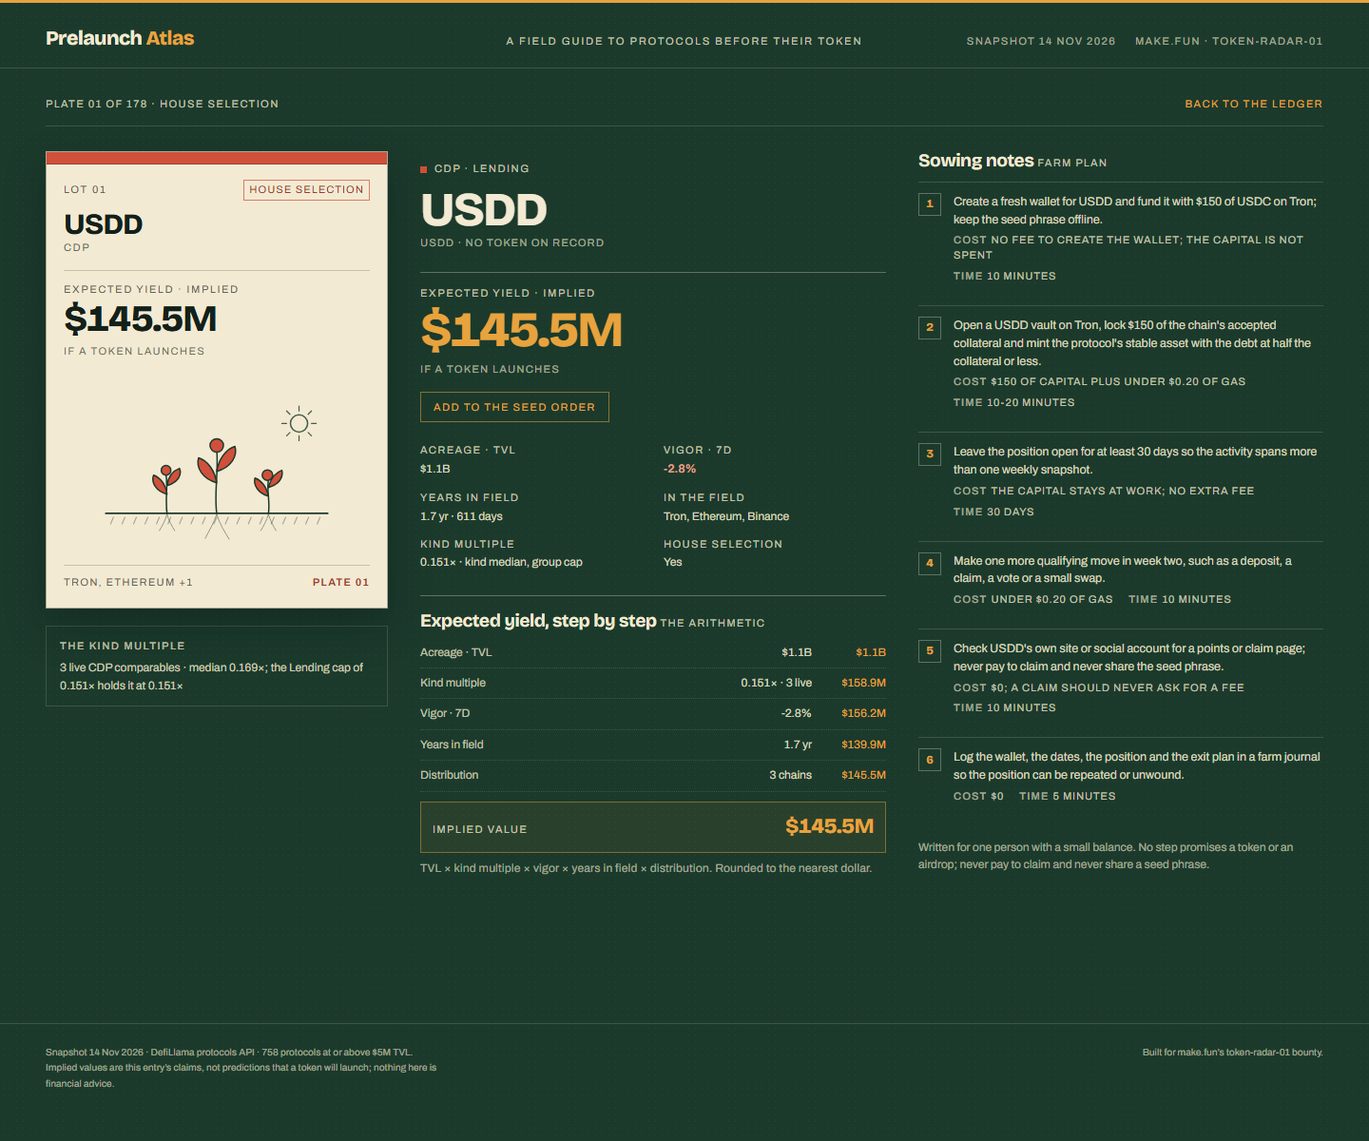
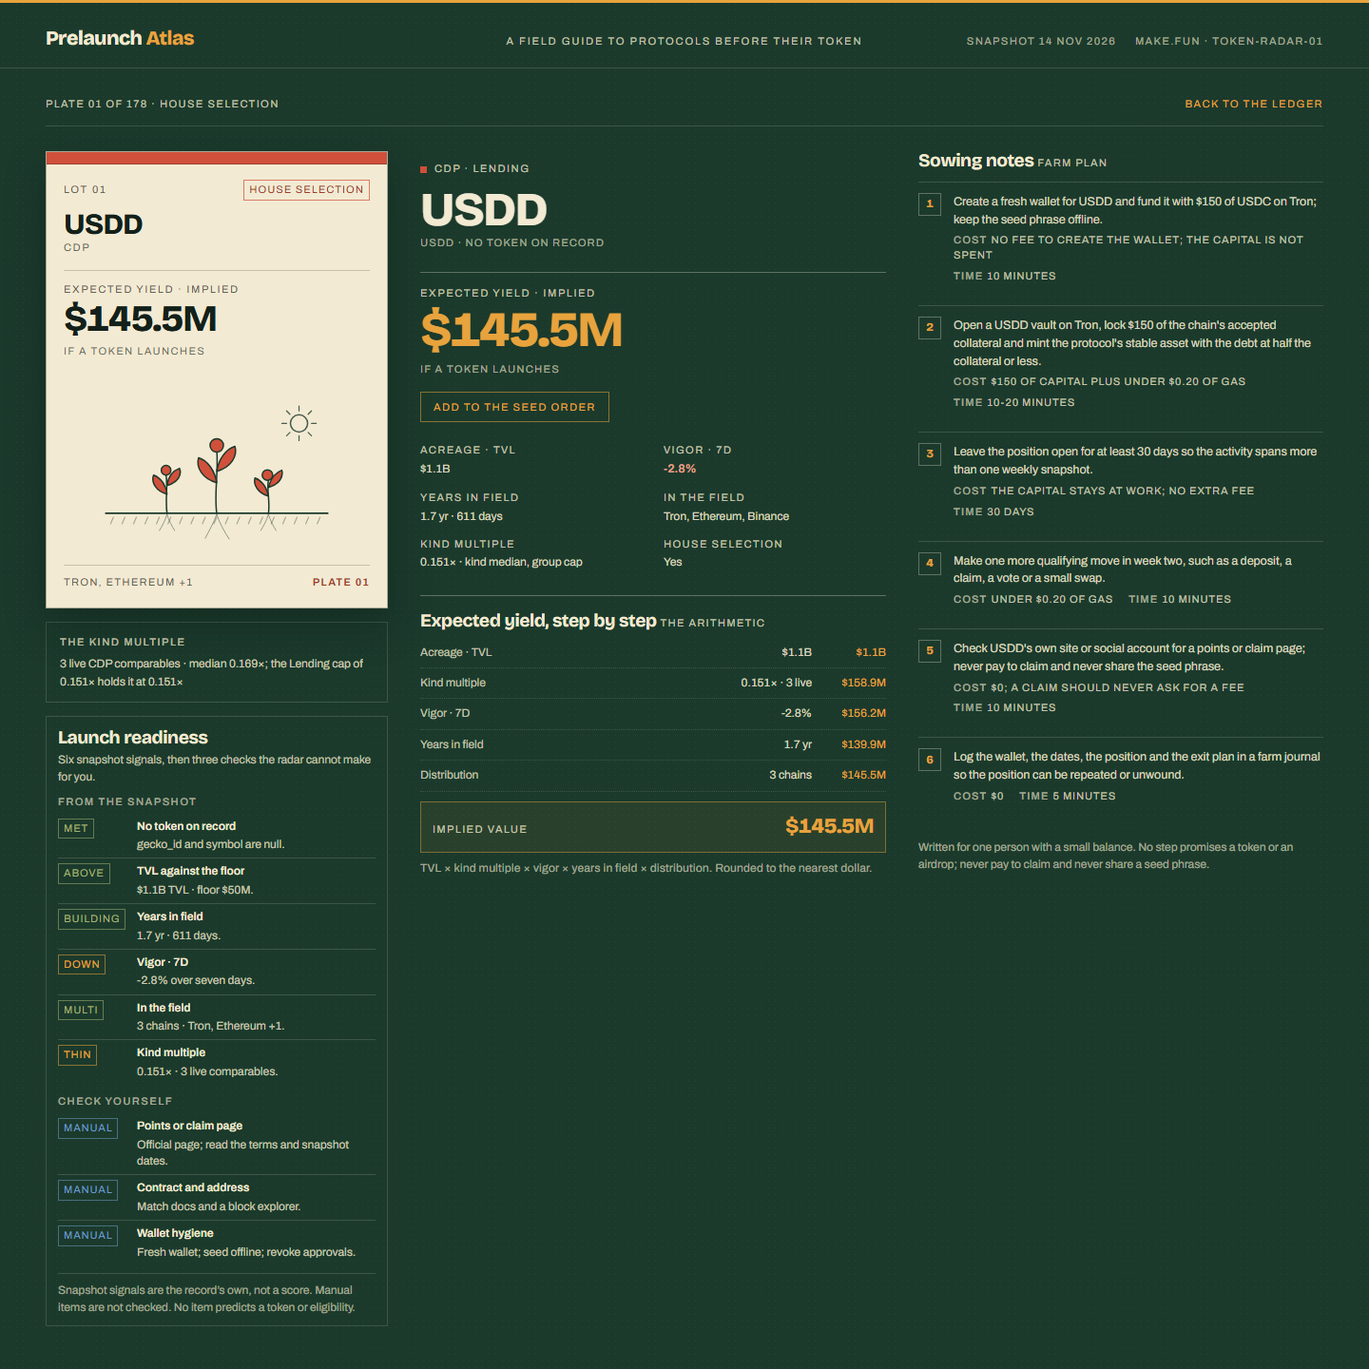
Add the launch-readiness checklist

diff --git a/dashboard/app.js b/dashboard/app.js
@@ -269,6 +269,44 @@
     }).join('');
   }
 
+  function readinessHTML(row) {
+    var aboveFloor = row.tvl_usd >= R.floor_usd;
+    var age = row.age_days;
+    var ageState = age === null ? 'No date' : age >= 730 ? 'Long' : age >= 365 ? 'Building' : 'New';
+    var ageTone = age !== null && age >= 365 ? 'is-met' : 'is-watch';
+    var growth = row.change_7d;
+    var growthState = growth === null ? 'No 7D' : growth > 0 ? 'Up' : growth < 0 ? 'Down' : 'Flat';
+    var growthTone = growth !== null && growth > 0 ? 'is-met' : 'is-watch';
+    var chainState = row.chains.length > 1 ? 'Multi' : row.chains.length === 1 ? 'Single' : 'No chain';
+    var chainTone = row.chains.length > 1 ? 'is-met' : 'is-watch';
+    var multipleState = row.multiple_n >= 4 ? 'Full' : row.multiple_n > 0 ? 'Thin' : 'Fallback';
+    var multipleTone = row.multiple_n >= 4 ? 'is-met' : 'is-watch';
+    var multipleBody = row.multiple_n === 0
+      ? multText(row.multiple) + ' · no live comparable.'
+      : multText(row.multiple) + ' · ' + row.multiple_n + ' live ' + (row.multiple_n === 1 ? 'comparable' : 'comparables') + '.';
+    function item(tone, state, title, body) {
+      return '<li><span class="check-mark ' + tone + '">' + state + '</span><div class="check-body"><strong>' + title + '</strong><span>' + body + '</span></div></li>';
+    }
+    return '<aside class="readiness" aria-labelledby="readiness-title">' +
+      '<h2 id="readiness-title">Launch readiness</h2>' +
+      '<p class="readiness-intro">Six snapshot signals, then three checks the radar cannot make for you.</p>' +
+      '<div class="readiness-part"><h3>From the snapshot</h3><ul class="readiness-list">' +
+      item('is-met', 'Met', 'No token on record', 'gecko_id and symbol are null.') +
+      item(aboveFloor ? 'is-met' : 'is-watch', aboveFloor ? 'Above' : 'Below', 'TVL against the floor', usd(row.tvl_usd) + ' TVL · floor ' + usd(R.floor_usd) + '.') +
+      item(ageTone, ageState, 'Years in field', age === null ? 'No start date recorded.' : ageText(age) + ' · ' + age.toLocaleString('en-US') + ' days.') +
+      item(growthTone, growthState, 'Vigor · 7D', growth === null ? 'No seven-day change reported.' : pct(growth) + ' over seven days.') +
+      item(chainTone, chainState, 'In the field', row.chains.length ? row.chains.length + ' chains · ' + esc(chainShort(row.chains)) + '.' : 'No chain recorded.') +
+      item(multipleTone, multipleState, 'Kind multiple', multipleBody) +
+      '</ul></div>' +
+      '<div class="readiness-part"><h3>Check yourself</h3><ul class="readiness-list">' +
+      item('is-manual', 'Manual', 'Points or claim page', 'Official page; read the terms and snapshot dates.') +
+      item('is-manual', 'Manual', 'Contract and address', 'Match docs and a block explorer.') +
+      item('is-manual', 'Manual', 'Wallet hygiene', 'Fresh wallet; seed offline; revoke approvals.') +
+      '</ul></div>' +
+      '<p class="readiness-note">Snapshot signals are the record’s own, not a score. Manual items are not checked. No item predicts a token or eligibility.</p>' +
+      '</aside>';
+  }
+
   function renderDetail() {
     var row = bySlug[state.slug];
     if (!row) { state.view = 'board'; render(); return; }
@@ -308,6 +346,7 @@
       '</article>';
     var side = '<div class="plate-side">' + packetHTML(row, false) +
       '<div class="comparables"><p class="comparables-title">The kind multiple</p><p>' + esc(row.multiple_basis) + '</p></div>' +
+      readinessHTML(row) +
       '</div>';
     var plan = '<div class="plan-column" id="plan"><h2>Sowing notes <span>farm plan</span></h2><ol class="plan">' +
       row.farm_plan.map(function (step, i) {

diff --git a/dashboard/app.css b/dashboard/app.css
@@ -564,7 +564,7 @@ input[type="search"]::placeholder { color: var(--muted); }
 .back { color: var(--marigold); text-decoration: none; }
 .back:hover { color: var(--cream); }
 .detail-grid { display: grid; grid-template-columns: 360px minmax(0, 1fr) 426px; gap: 34px; align-items: start; }
-.plate-side { display: flex; flex-direction: column; gap: 18px; min-width: 0; }
+.plate-side { display: flex; flex-direction: column; gap: 14px; min-width: 0; }
 .plate-side .comparables { margin-top: 0; }
 .detail-grid .packet { max-width: 360px; }
 .packet-static { box-shadow: 0 18px 40px rgba(6, 18, 12, 0.3); }
@@ -595,6 +595,22 @@ input[type="search"]::placeholder { color: var(--muted); }
 .comparables .comparables-title { margin: 0 0 5px; font-size: 11px; letter-spacing: 0.14em; text-transform: uppercase; color: var(--muted); font-weight: 500; }
 .comparables p { margin: 0; font-size: 12px; line-height: 1.55; color: rgba(243, 234, 211, 0.85); }
 .comparables b { color: var(--cream); font-weight: 600; }
+.readiness { border: 1px solid var(--line); padding: 12px 12px 10px; }
+.readiness h2 { margin: 0; font-family: var(--font-display); font-weight: 700; font-size: 19px; letter-spacing: -0.02em; }
+.readiness-intro { margin: 4px 0 0; font-size: 12px; line-height: 1.5; color: var(--muted); }
+.readiness-part { margin-top: 10px; }
+.readiness-part h3 { margin: 0 0 4px; font-size: 11px; letter-spacing: 0.14em; text-transform: uppercase; color: var(--muted-2); font-weight: 500; }
+.readiness-list { list-style: none; margin: 0; padding: 0; }
+.readiness-list li { display: grid; grid-template-columns: 74px minmax(0, 1fr); gap: 9px; padding: 5px 0; border-top: 1px solid var(--line); }
+.readiness-list li:first-child { border-top: 0; }
+.check-mark { align-self: start; justify-self: start; padding: 2px 5px; border: 1px solid var(--line-strong); font-size: 11px; line-height: 1.4; letter-spacing: 0.08em; text-transform: uppercase; color: var(--muted); white-space: nowrap; }
+.check-mark.is-met { color: var(--olive); border-color: rgba(163, 178, 116, 0.55); }
+.check-mark.is-watch { color: var(--marigold); border-color: rgba(232, 163, 61, 0.55); }
+.check-mark.is-manual { color: var(--cornflower); border-color: rgba(110, 155, 197, 0.55); }
+.check-body { min-width: 0; }
+.check-body strong { display: block; font-size: 12px; font-weight: 600; color: var(--cream); }
+.check-body span { display: block; margin-top: 2px; font-size: 12px; line-height: 1.45; color: rgba(243, 234, 211, 0.82); }
+.readiness-note { margin: 8px 0 0; padding-top: 8px; border-top: 1px solid var(--line); font-size: 12px; line-height: 1.5; color: var(--muted-2); }
 .plan-column { min-width: 0; }
 .plan { list-style: none; margin: 12px 0 0; padding: 0; }
 .step { display: grid; grid-template-columns: 26px minmax(0, 1fr); gap: 11px; padding: 11px 0; border-top: 1px solid var(--line); }

diff --git a/DESIGN.md b/DESIGN.md
@@ -6,7 +6,7 @@ A working seed catalogue for protocols before their token. The page is a trial l
 
 - **Thesis.** A field guide to the unlaunched. Lot numbers, variety names, acreage, vigor and years in the field carry the interface; the seed packet is the one drawn plate.
 - **Form.** Catalogue / field guide, code-led. The ledger is the primary object; the packet is the recurring object at the top of the page and on every plate.
-- **Story.** See the house selection and the wider unlaunched field; understand that the yield is built from live category comparables; open a variety; know what farming it costs and takes; add a few lots to a seed order and read the capital, gas, setup, longest hold and implied cover; see the protocols set aside and why.
+- **Story.** See the house selection and the wider unlaunched field; understand that the yield is built from live category comparables; open a variety; know what farming it costs and takes; read the snapshot signals and the checks only the reader can make; add a few lots to a seed order and read the capital, gas, setup, longest hold and implied cover; see the protocols set aside and why.
 - **First viewport.** Masthead, the grotesque headline, a short deck with the snapshot counts, a live seed packet for lot 01, and the first rows of the ledger.
 
 ## World and colour
@@ -47,7 +47,7 @@ A 3px marigold band sits above the masthead. Selection is marigold on ink; focus
 - Ledger: full-width table inside `.table-wrap` with `overflow-x: auto`; the ranking stays a table at every width. The Farm cell holds the Plan link and a 22px basket toggle.
 - Screened-out table: the third ledger tab, nine-column table reduced to five (variety, kind, chains, TVL, reason); no rank; sorted by TVL.
 - Seed order: a fixed bar at the bottom, full width, `--pad` gutters; body padding-bottom 88px while a basket exists (154px at ≤620px). The cream drawer opens above the bar, 520px wide on the right; at ≤620px it spans the page.
-- Detail: `360px minmax(0,1fr) 426px` (packet, record, plan); at ≤1200px the plan moves below; at ≤900px it is one column. The Add button sits under the implied value in the record.
+- Detail: `360px minmax(0,1fr) 426px` (packet, record, plan); at ≤1200px the plan moves below; at ≤900px it is one column. The left column holds the packet, the kind-multiple note and the launch-readiness card; the Add button sits under the implied value in the record.
 - Method: four-column grid of factors at desktop, two at ≤1200px, one at ≤620px.
 
 ## Components
@@ -58,6 +58,7 @@ A 3px marigold band sits above the masthead. Selection is marigold on ink; focus
 - **Filters.** Kind select, chain select, house-selection checkbox, search, and clear. They write to the URL and reset through one button; the result count is a polite live region.
 - **Screened-out table.** The third tab, with the 164 pre-token protocols that are not ranked; variety, kind, chains, TVL and the reason (exchange token, bridge, liquid staking, restaking, versioned, wrapped or staked, above-floor outside the house selection). It uses the ledger table styling, sorted by TVL, and never carries a rank.
 - **Plate.** Top bar with plate number, house selection and a back link; the packet, the kind-multiple panel, the record with the Add to the seed order button, a step-by-step waterfall running to the implied value, and six sowing notes with cost and time.
+- **Launch readiness.** A card under the packet and the kind-multiple note. Six snapshot rows (no token on record, TVL against the floor, years in field, 7D vigor, chains, kind-multiple sample) carry a one-word state — Met, Above, Below, Long, Building, New, Up, Down, Flat, Multi, Single, Full, Thin, Fallback, No date, No 7D, No chain — and a one-line reading; three manual rows (points or claim page, contract and address, wallet hygiene) are marked Manual and are not checked. The card closes with a note that the signals are the record’s own, not a score, and that no item predicts a token or eligibility.
 - **Seed order.** The fixed bar shows the lot count, capital at work, gas, longest hold, setup minutes, total implied value and implied ÷ capital cover. Review opens the cream drawer with one line per lot (rank, name, kind, capital, gas, hold) and Remove; Clear empties it. The bar and drawer use the packet cream against the leaf ground, so the basket reads as the order slip of the catalogue.
 - **Method.** The formula, the four factors, and the per-kind comparables table with the basis for each multiple.
 
@@ -71,6 +72,7 @@ A 3px marigold band sits above the masthead. Selection is marigold on ink; focus
 - Distribution is `1 + 0.02 × min(chains − 1, 4)`.
 - The board is 178 rows: 40 on the house watchlist and 138 below the floor. The other 164 pre-token protocols sit in the screened-out table with the reason derived from the snapshot’s category, name and floor, so all 342 that record no token are accounted for. The 416 live tokens are shown for context and are not ranked. Every number is the entry’s own claim, not a prediction that a token will launch.
 - The basket is an aggregation, not a new model. Capital is each plan’s funding, added up (the position at work, not a fee). Gas is two moves per plan: $9 on Ethereum, $0.20 on the cheap chains, $1.25 elsewhere, so $18, $0.40 or $2.50 per plan. Setup is 50 minutes per plan; hold is the longest plan, not the sum. Implied is the sum of the selected rows. Cover is implied ÷ capital and is a comparison, not a return.
+- The launch-readiness card is a reading of the same row fields, not a second model: TVL against `floor_usd`, `age_days`, `change_7d`, `chains`, and `multiple_n` with the multiple’s source. The manual rows are static guidance; the page never claims eligibility.
 
 ## Motion and interaction
 
@@ -78,19 +80,20 @@ The page is static HTML/CSS/JS with no build step and no network. Transitions ar
 
 ## Accessibility and finish checks
 
-- The Impeccable mechanical detector reports **0 findings** on `dashboard/index.html`, `dashboard/app.css` and `dashboard/app.js` (functional text ≥11px, body ≥12px, contrast on muted tokens, heading order). The detector was rerun after the basket bar and drawer were added; the first pass flagged the 8–10px bar labels and the drawer kicker, and both were fixed.
-- At a true 390px device viewport, `document.documentElement.scrollWidth` is 390 for board, detail, method, filtered, screened, filtered-basket and detail-basket views: no page-level horizontal overflow; the ledger table scrolls inside its own wrapper and the basket bar wraps.
+- The Impeccable mechanical detector reports **0 findings** on the built page (`out/dashboard/index.html`) and the dashboard files: functional text ≥11px, body ≥12px, contrast on muted tokens, heading order. The detector was rerun after the basket bar and drawer and again after the launch-readiness card; the first pass flagged the 8–10px bar labels and the drawer kicker, and both were fixed. The directory scan covers the CSS and JS by regex; the built-page scan is the parsed-page pass and exits 0.
+- At a true 390px device viewport, `document.documentElement.scrollWidth` is 390 for board, detail, method, filtered, screened, filtered-basket and detail-basket views: no page-level horizontal overflow; the ledger table scrolls inside its own wrapper, the basket bar wraps, and the readiness card keeps its 74px status column beside the text.
 - The build was measured with headless Chrome through CDP, not by eyeballing a resized window (old headless clamps the window to 500px and crops a 390px screenshot).
-- Basket toggles carry `aria-pressed` and name the action in their label; the drawer is a labelled region with a Close button and Escape; the lot count is a polite live region; the bar’s values are visible text, not colour-only state.
+- Basket toggles carry `aria-pressed` and name the action in their label; the drawer is a labelled region with a Close button and Escape; the lot count is a polite live region; the bar’s values are visible text, not colour-only state. The readiness rows are a semantic list; their state is written, not colour-only, and the card is labelled by its heading.
 
 ## Provenance
 
 - **Build.** `node main.ts --input <snapshot.json> --output out` writes `board.json`, `data.js`, copies `dashboard/` and `screenshots/`, and writes `dossier.json` with the competition’s dossier builder. Two runs are byte-identical across all 13 output files.
-- **Dossier text.** The builder’s 65,536-byte text budget is nearly exhausted by the dashboard source. The source enters in CSS, JS, then HTML order; the CSS and JS are complete, and the last few kilobytes of `index.html` are cut. The font license files sit in `licenses/` rather than `dashboard/fonts/`, so they no longer consume the source budget. The rendered result is what the screenshots carry.
-- **Rasters.** `screenshots/1-board.png` (board with the Screened out tab), `2-detail.png` (USDD plate with Add to the seed order) and `3-filtered.png` (RWA, TVL descending, with a three-lot seed order) are 1440px-wide captures of the built dashboard in headless Chrome on 25 November 2026, 1440 or 1200px tall. The competition’s image gate caps the long side at 1440 and asks for a short side of at least 800; these are viewport-height captures, not full-page, and the direction brief’s “1440×1024 capture” is the same desktop viewport rather than a 1024px crop.
+- **Dossier text.** The builder’s 65,536-byte text budget is exhausted by the dashboard source. The source enters in path order: `app.css` and `app.js` are complete, and `index.html` is cut after line 20 (154 of its 174 lines, 11,222 bytes, are left out). The launch-readiness markup is generated in `app.js`, so it is complete; the static table and basket markup is what the screenshots carry. The font license files sit in `licenses/` rather than `dashboard/fonts/`, so they no longer consume the source budget.
+- **Rasters.** `screenshots/1-board.png` (board with the Screened out tab), `2-detail.png` (USDD plate with its launch-readiness checklist and Add to the seed order) and `3-filtered.png` (RWA, TVL descending, with a three-lot seed order) are 1440×1440 captures of the built dashboard in headless Chrome on 25 November 2026. The board and filtered views did not change from V2, and their captures are byte-identical; the detail capture is new. The competition’s image gate caps the long side at 1440 and asks for a short side of at least 800; these are viewport-height captures, not full-page, and the direction brief’s “1440×1024 capture” is the same desktop viewport rather than a 1024px crop.
+- **Dossier size.** `dossier.json` is 1,048,074 bytes with 65,477 bytes of text and three images; two runs write the same 13 files byte for byte.
 - **Review captures.** The 390px evidence lives in `.impeccable/review/` (gitignored): board, detail, method, filtered, screened, filtered-basket and detail-basket at 390×844, plus the earlier 500px-window crop that exposed the headless minimum-width artifact.
 - **Data.** The sealed snapshot is the competition’s DefiLlama protocols data at 14 November 2026: 758 protocols at or above $5,000,000 TVL, 40 on the watchlist. The snapshot carries no ranking, yield or farm plan; every number in the board is the entry’s own claim.
 
 ## Finish review
 
-**Verdict: finished.** The detector is clean after the bar and drawer fixes; seven views render at 390px without page overflow; the three shipping rasters match the board, the USDD plate and the RWA filter with its seed order; the basket totals were checked against the selected board rows. The departure from the direction brief remains the raster format: the shipping images are 1440px-wide viewport-height captures rather than 1440×1024 crops, because the competition’s image gate and the judge both read the page itself. No material visual fixes remain.
+**Verdict: finished.** The detector is clean on the built page; seven views render at 390px without page overflow; the three shipping rasters match the board, the USDD plate with its launch-readiness checklist, and the RWA filter with its seed order; the basket totals were checked against the selected board rows. The departure from the direction brief remains the raster format: the shipping images are 1440×1440 viewport-height captures rather than 1440×1024 crops, because the competition’s image gate and the judge both read the page itself. No material visual fixes remain.

diff --git a/README.md b/README.md
@@ -4,7 +4,7 @@
 [![rank](https://make.fun/badge/token-radar-01/obvirm/prelaunch-atlas/rank.svg)](https://make.fun/bounty/token-radar-01/leaderboard?utm_source=github&utm_medium=readme&utm_campaign=token-radar-01)
 [![reward](https://make.fun/badge/token-radar-01/obvirm/prelaunch-atlas/reward.svg)](https://make.fun/bounty/token-radar-01?utm_source=github&utm_medium=readme&utm_campaign=token-radar-01)
 
-A field guide to DeFi protocols that record no token, ranked by the value a launch could carry, with a farm plan for every one. It reads the sealed snapshot, derives each kind’s multiple from live comparables, and writes a sortable board, a per-protocol plate, a screened-out table for the pre-token protocols it sets aside, a live table, and the method behind the numbers. A seed-order basket totals the capital, gas, setup and longest hold for any set of rows.
+A field guide to DeFi protocols that record no token, ranked by the value a launch could carry, with a farm plan for every one. It reads the sealed snapshot, derives each kind’s multiple from live comparables, and writes a sortable board, a per-protocol plate with a launch-readiness checklist, a screened-out table for the pre-token protocols it sets aside, a live table, and the method behind the numbers. A seed-order basket totals the capital, gas, setup and longest hold for any set of rows.
 
 ## Run it
 
@@ -21,8 +21,9 @@ The program is Node 22, standard library only. It writes `board.json` and the da
 - **416 live tokens set aside.** A protocol whose token already trades is not a pre-token candidate; the live table shows them for context and does not rank them.
 - **Expected yield** = TVL × kind multiple × vigor × years in field × distribution. The kind multiple is the median market cap to TVL of live protocols in the same kind, each ratio held between 0.02× and 2×; with fewer than four live comparables, the lower of the kind’s median and its wider group’s; with none, a stated fallback.
 - **Six-step farm plans** for every row, each with a cost and a time, from the first wallet to the exit note.
+- **Launch readiness on every plate.** Six signals from the snapshot — no token on record, TVL against the floor, years in field, 7D vigor, chains, and the kind-multiple sample — then three checks the radar cannot make for you: the official points or claim page, the contract and address, and wallet hygiene. The signals are the record’s own, not a score; the manual items are not checked, and no item predicts a token or eligibility.
 - **Seed-order basket.** Add a row from the board or its plate; the fixed bar totals the capital at work, gas for two moves per plan, setup minutes, the longest hold, the total implied value and the implied ÷ capital cover ratio. The basket travels in the URL and is remembered in local storage.
-- **The dashboard** is a static field guide: board, per-protocol plate, live table, screened-out table, method, and the seed-order bar and drawer. It needs no network and no build step.
+- **The dashboard** is a static field guide: board, per-protocol plate with its launch-readiness checklist, live table, screened-out table, method, and the seed-order bar and drawer. It needs no network and no build step.
 
 ## Where the numbers come from
 
@@ -32,7 +33,7 @@ The typefaces are self-hosted: Bricolage Grotesque and Archivo, used under the S
 
 ## Screenshots
 
-`screenshots/1-board.png`, `2-detail.png` and `3-filtered.png` are 1440px-wide captures of the built dashboard in headless Chrome on 25 November 2026: the board with the Screened out tab, the USDD plate with Add to the seed order, and the board filtered to RWA with a three-lot seed order and its totals in the fixed bar. The competition’s image gate caps the long side at 1440 and asks for a short side of at least 800; these are viewport-height captures (1440 or 1200), not full-page. The design system, including the screenshot and review provenance, is in [DESIGN.md](DESIGN.md).
+`screenshots/1-board.png`, `2-detail.png` and `3-filtered.png` are 1440×1440 captures of the built dashboard in headless Chrome on 25 November 2026: the board with the Screened out tab, the USDD plate with its launch-readiness checklist and Add to the seed order, and the board filtered to RWA with a three-lot seed order and its totals in the fixed bar. The competition’s image gate caps the long side at 1440 and asks for a short side of at least 800; these are viewport-height captures, not full-page. The design system, including the screenshot and review provenance, is in [DESIGN.md](DESIGN.md).
 
 ## License
 
